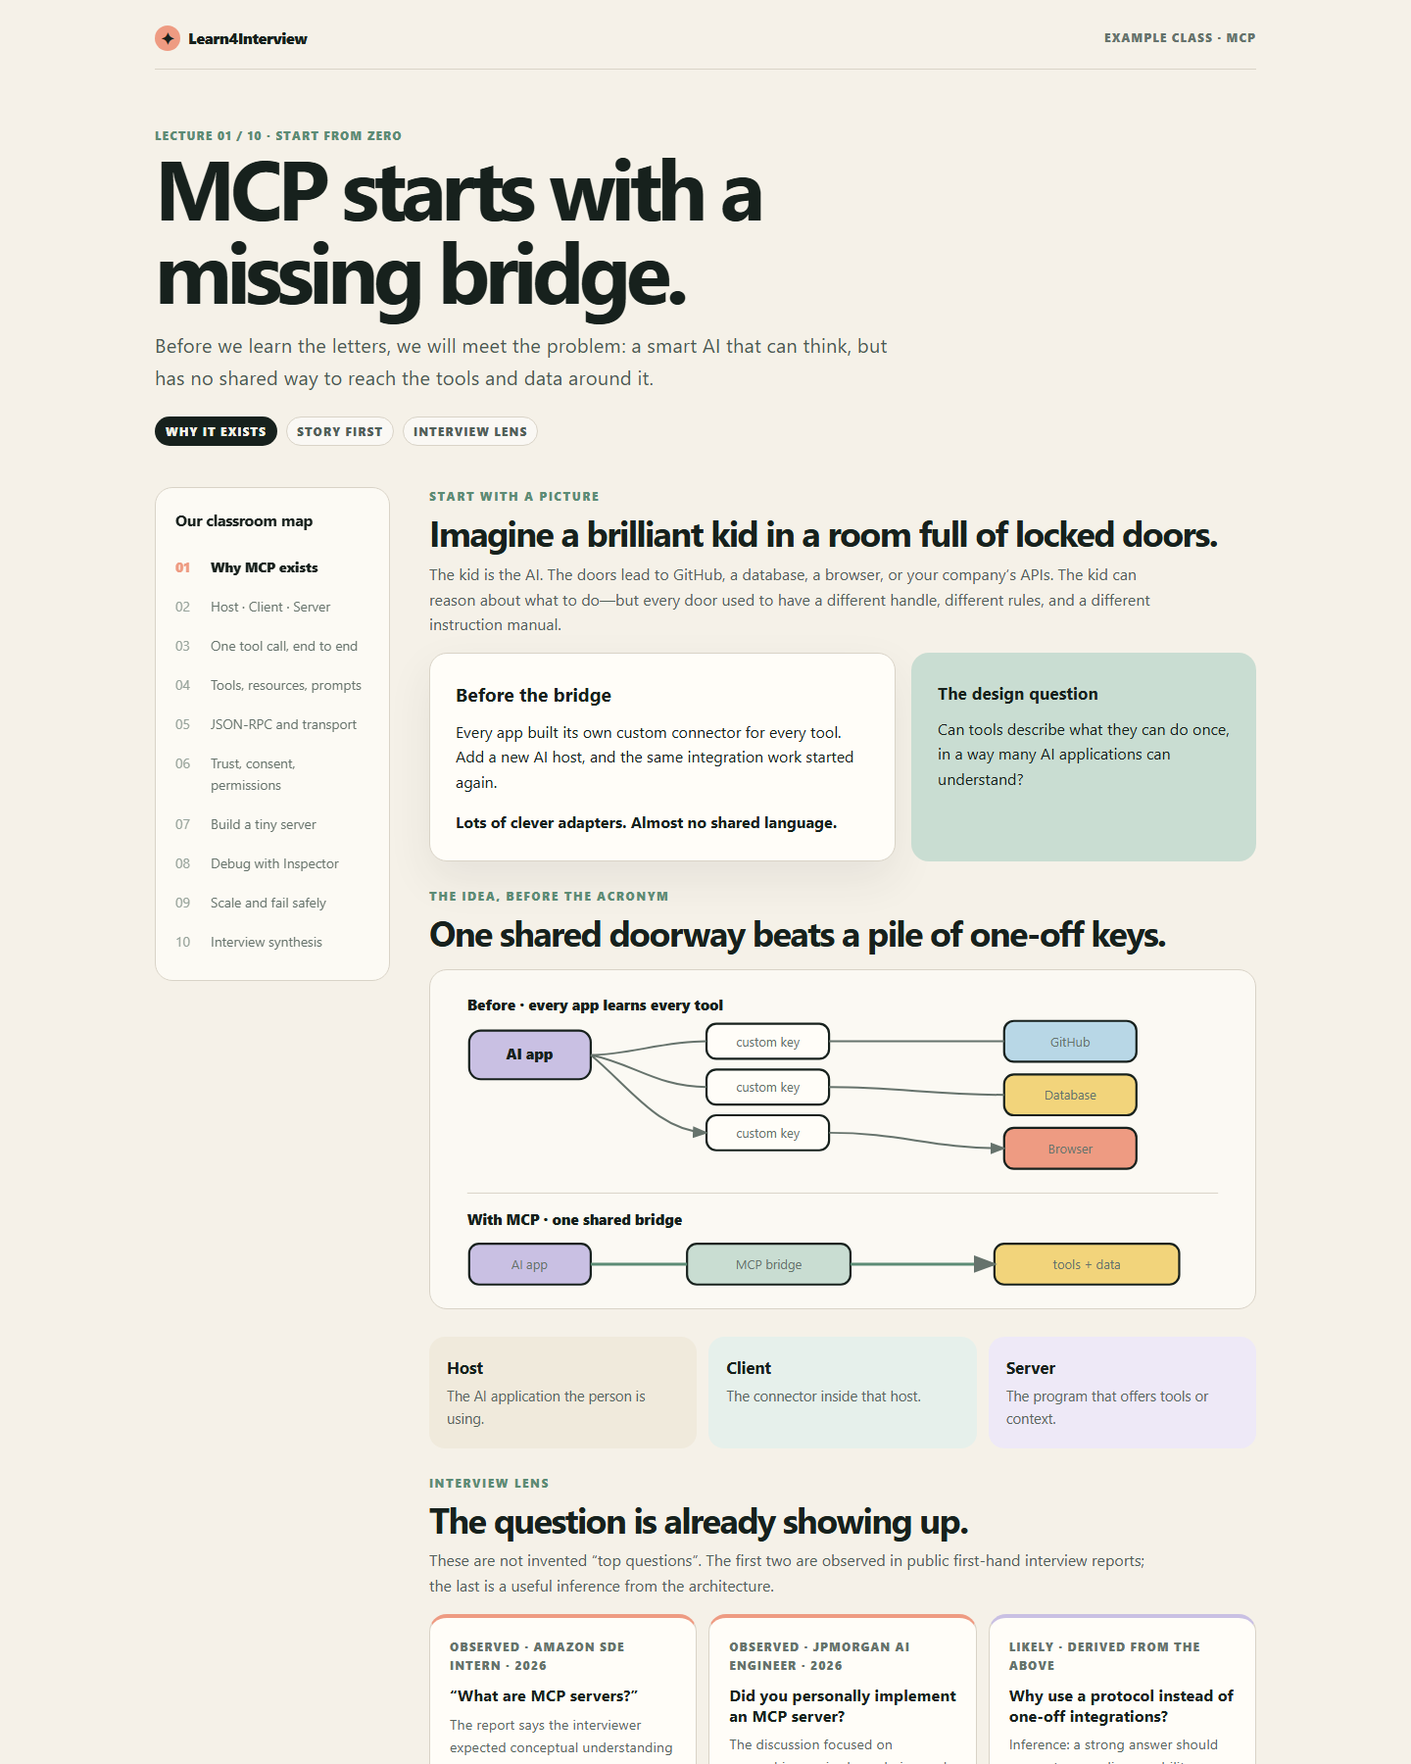
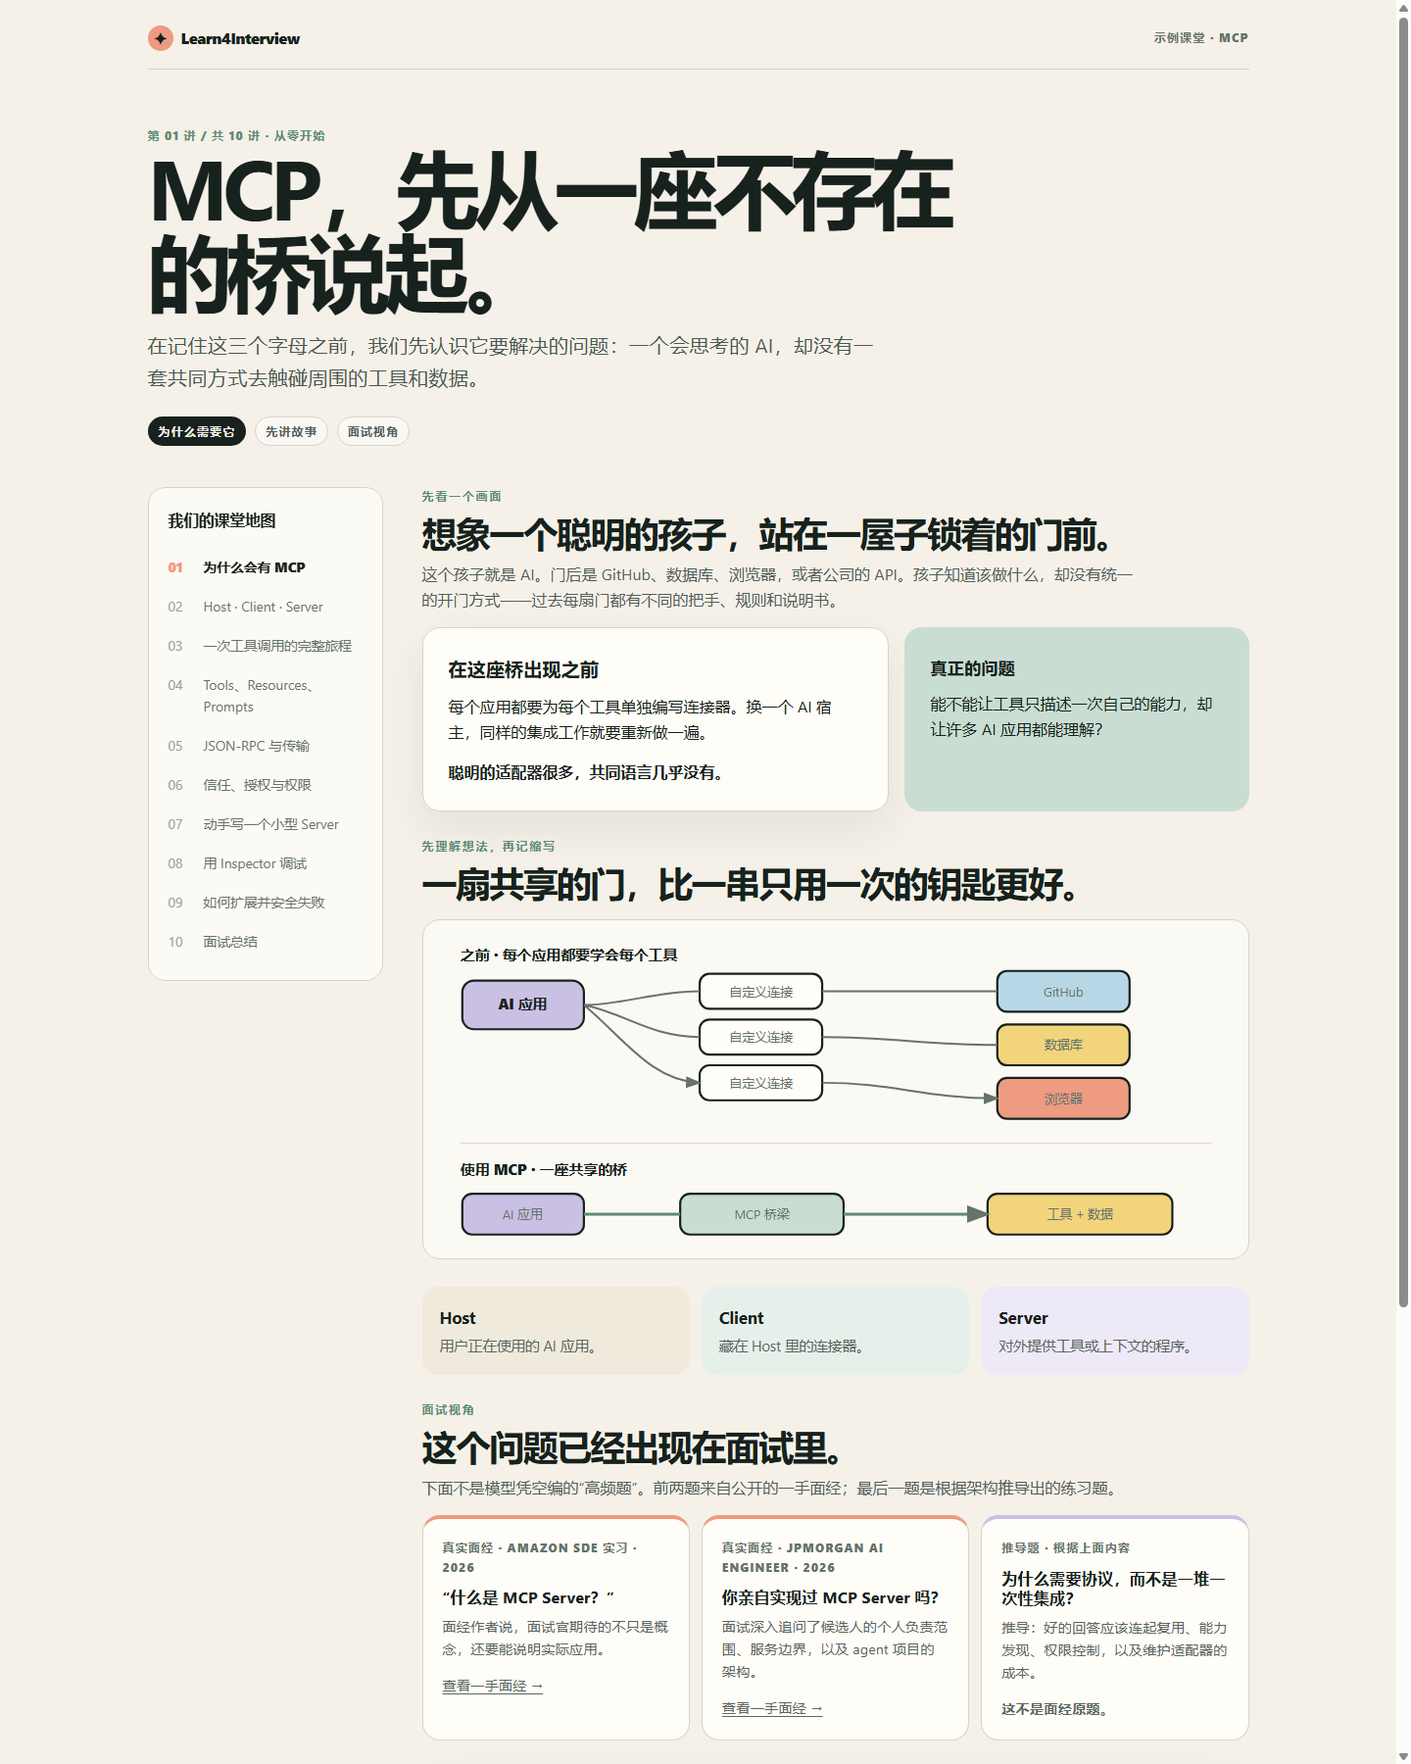
Localize MCP example lesson to Chinese

diff --git a/examples/mcp/lecture-01.html b/examples/mcp/lecture-01.html
@@ -1,9 +1,9 @@
 <!doctype html>
-<html lang="en">
+<html lang="zh-CN">
 <head>
   <meta charset="utf-8">
   <meta name="viewport" content="width=device-width, initial-scale=1">
-  <title>MCP · Lecture 01 · Why the bridge exists</title>
+  <title>MCP · 第 01 讲 · 为什么需要这座桥</title>
   <style>
     :root {
       --ink: #17211d;
@@ -114,125 +114,125 @@
   <div class="shell">
     <header class="topbar">
       <a class="brand" href="../../SKILL.md"><span class="brand-mark">✦</span>Learn4Interview</a>
-      <span class="top-meta">Example class · MCP</span>
+      <span class="top-meta">示例课堂 · MCP</span>
     </header>
 
     <section class="hero" aria-labelledby="page-title">
-      <div class="eyebrow">Lecture 01 / 10 · Start from zero</div>
-      <h1 id="page-title">MCP starts with a missing bridge.</h1>
-      <p class="lede">Before we learn the letters, we will meet the problem: a smart AI that can think, but has no shared way to reach the tools and data around it.</p>
-      <div class="hero-meta"><span class="chip active">Why it exists</span><span class="chip">Story first</span><span class="chip">Interview lens</span></div>
+      <div class="eyebrow">第 01 讲 / 共 10 讲 · 从零开始</div>
+      <h1 id="page-title">MCP，先从一座不存在的桥说起。</h1>
+      <p class="lede">在记住这三个字母之前，我们先认识它要解决的问题：一个会思考的 AI，却没有一套共同方式去触碰周围的工具和数据。</p>
+      <div class="hero-meta"><span class="chip active">为什么需要它</span><span class="chip">先讲故事</span><span class="chip">面试视角</span></div>
     </section>
 
     <div class="course">
-      <aside class="roadmap" aria-label="MCP course roadmap">
-        <h2>Our classroom map</h2>
+      <aside class="roadmap" aria-label="MCP 课程地图">
+        <h2>我们的课堂地图</h2>
         <ol>
-          <li class="current">Why MCP exists</li>
+          <li class="current">为什么会有 MCP</li>
           <li>Host · Client · Server</li>
-          <li>One tool call, end to end</li>
-          <li>Tools, resources, prompts</li>
-          <li>JSON-RPC and transport</li>
-          <li>Trust, consent, permissions</li>
-          <li>Build a tiny server</li>
-          <li>Debug with Inspector</li>
-          <li>Scale and fail safely</li>
-          <li>Interview synthesis</li>
+          <li>一次工具调用的完整旅程</li>
+          <li>Tools、Resources、Prompts</li>
+          <li>JSON-RPC 与传输</li>
+          <li>信任、授权与权限</li>
+          <li>动手写一个小型 Server</li>
+          <li>用 Inspector 调试</li>
+          <li>如何扩展并安全失败</li>
+          <li>面试总结</li>
         </ol>
       </aside>
 
       <main class="lesson">
         <section class="section" aria-labelledby="story-title">
-          <div class="section-label">Start with a picture</div>
-          <h2 id="story-title">Imagine a brilliant kid in a room full of locked doors.</h2>
-          <p class="section-intro">The kid is the AI. The doors lead to GitHub, a database, a browser, or your company’s APIs. The kid can reason about what to do—but every door used to have a different handle, different rules, and a different instruction manual.</p>
+          <div class="section-label">先看一个画面</div>
+          <h2 id="story-title">想象一个聪明的孩子，站在一屋子锁着的门前。</h2>
+          <p class="section-intro">这个孩子就是 AI。门后是 GitHub、数据库、浏览器，或者公司的 API。孩子知道该做什么，却没有统一的开门方式——过去每扇门都有不同的把手、规则和说明书。</p>
           <div class="story">
             <article class="story-card">
-              <h3>Before the bridge</h3>
-              <p>Every app built its own custom connector for every tool. Add a new AI host, and the same integration work started again.</p>
-              <p><strong>Lots of clever adapters. Almost no shared language.</strong></p>
+              <h3>在这座桥出现之前</h3>
+              <p>每个应用都要为每个工具单独编写连接器。换一个 AI 宿主，同样的集成工作就要重新做一遍。</p>
+              <p><strong>聪明的适配器很多，共同语言几乎没有。</strong></p>
             </article>
             <article class="story-card accent-card">
-              <strong>The design question</strong>
-              <p>Can tools describe what they can do once, in a way many AI applications can understand?</p>
+              <strong>真正的问题</strong>
+              <p>能不能让工具只描述一次自己的能力，却让许多 AI 应用都能理解？</p>
             </article>
           </div>
         </section>
 
         <section class="section" aria-labelledby="diagram-title">
-          <div class="section-label">The idea, before the acronym</div>
-          <h2 id="diagram-title">One shared doorway beats a pile of one-off keys.</h2>
+          <div class="section-label">先理解想法，再记缩写</div>
+          <h2 id="diagram-title">一扇共享的门，比一串只用一次的钥匙更好。</h2>
           <div class="diagram">
-            <svg viewBox="0 0 820 320" role="img" aria-label="Comparison of many custom integrations versus one MCP bridge">
+            <svg viewBox="0 0 820 320" role="img" aria-label="多套自定义集成与一座 MCP 桥梁的对比">
               <defs>
                 <marker id="arrow" markerWidth="9" markerHeight="9" refX="7" refY="3" orient="auto"><path d="M0,0 L0,6 L8,3 z" fill="#66736c"/></marker>
               </defs>
-              <text x="24" y="27" class="label">Before · every app learns every tool</text>
-              <rect x="26" y="48" width="125" height="50" rx="12" fill="#c9c0e3" class="node"/><text x="88" y="78" text-anchor="middle" class="label">AI app</text>
-              <rect x="270" y="41" width="126" height="36" rx="10" fill="#fffdf8" class="node"/><text x="333" y="64" text-anchor="middle" class="small">custom key</text>
-              <rect x="270" y="88" width="126" height="36" rx="10" fill="#fffdf8" class="node"/><text x="333" y="111" text-anchor="middle" class="small">custom key</text>
-              <rect x="270" y="135" width="126" height="36" rx="10" fill="#fffdf8" class="node"/><text x="333" y="158" text-anchor="middle" class="small">custom key</text>
+              <text x="24" y="27" class="label">之前 · 每个应用都要学会每个工具</text>
+              <rect x="26" y="48" width="125" height="50" rx="12" fill="#c9c0e3" class="node"/><text x="88" y="78" text-anchor="middle" class="label">AI 应用</text>
+              <rect x="270" y="41" width="126" height="36" rx="10" fill="#fffdf8" class="node"/><text x="333" y="64" text-anchor="middle" class="small">自定义连接</text>
+              <rect x="270" y="88" width="126" height="36" rx="10" fill="#fffdf8" class="node"/><text x="333" y="111" text-anchor="middle" class="small">自定义连接</text>
+              <rect x="270" y="135" width="126" height="36" rx="10" fill="#fffdf8" class="node"/><text x="333" y="158" text-anchor="middle" class="small">自定义连接</text>
               <rect x="576" y="38" width="136" height="42" rx="10" fill="#b8d7e6" class="node"/><text x="644" y="64" text-anchor="middle" class="small">GitHub</text>
-              <rect x="576" y="93" width="136" height="42" rx="10" fill="#f2d47b" class="node"/><text x="644" y="119" text-anchor="middle" class="small">Database</text>
-              <rect x="576" y="148" width="136" height="42" rx="10" fill="#ee9b82" class="node"/><text x="644" y="174" text-anchor="middle" class="small">Browser</text>
+              <rect x="576" y="93" width="136" height="42" rx="10" fill="#f2d47b" class="node"/><text x="644" y="119" text-anchor="middle" class="small">数据库</text>
+              <rect x="576" y="148" width="136" height="42" rx="10" fill="#ee9b82" class="node"/><text x="644" y="174" text-anchor="middle" class="small">浏览器</text>
               <path d="M151 73 C190 73 225 59 270 59 M151 73 C195 82 220 106 270 106 M151 73 C190 105 220 151 270 153" fill="none" stroke="#66736c" stroke-width="2" marker-end="url(#arrow)"/>
               <path d="M396 59 C470 59 500 59 576 59 M396 106 C470 106 500 114 576 114 M396 153 C470 153 500 169 576 169" fill="none" stroke="#66736c" stroke-width="2" marker-end="url(#arrow)"/>
               <line x1="24" y1="215" x2="796" y2="215" stroke="#d9d3c7"/>
-              <text x="24" y="248" class="label">With MCP · one shared bridge</text>
-              <rect x="26" y="267" width="125" height="42" rx="10" fill="#c9c0e3" class="node"/><text x="88" y="293" text-anchor="middle" class="small">AI app</text>
-              <rect x="250" y="267" width="168" height="42" rx="10" fill="#c9ddd2" class="node"/><text x="334" y="293" text-anchor="middle" class="small">MCP bridge</text>
-              <rect x="566" y="267" width="190" height="42" rx="10" fill="#f2d47b" class="node"/><text x="661" y="293" text-anchor="middle" class="small">tools + data</text>
+              <text x="24" y="248" class="label">使用 MCP · 一座共享的桥</text>
+              <rect x="26" y="267" width="125" height="42" rx="10" fill="#c9c0e3" class="node"/><text x="88" y="293" text-anchor="middle" class="small">AI 应用</text>
+              <rect x="250" y="267" width="168" height="42" rx="10" fill="#c9ddd2" class="node"/><text x="334" y="293" text-anchor="middle" class="small">MCP 桥梁</text>
+              <rect x="566" y="267" width="190" height="42" rx="10" fill="#f2d47b" class="node"/><text x="661" y="293" text-anchor="middle" class="small">工具 + 数据</text>
               <path d="M151 288 L250 288 M418 288 L566 288" fill="none" stroke="#5c8c75" stroke-width="3" marker-end="url(#arrow)"/>
             </svg>
           </div>
-          <div class="term-grid" aria-label="First vocabulary reveal">
-            <article class="term"><b>Host</b><p>The AI application the person is using.</p></article>
-            <article class="term"><b>Client</b><p>The connector inside that host.</p></article>
-            <article class="term"><b>Server</b><p>The program that offers tools or context.</p></article>
+          <div class="term-grid" aria-label="第一次词汇揭示">
+            <article class="term"><b>Host</b><p>用户正在使用的 AI 应用。</p></article>
+            <article class="term"><b>Client</b><p>藏在 Host 里的连接器。</p></article>
+            <article class="term"><b>Server</b><p>对外提供工具或上下文的程序。</p></article>
           </div>
         </section>
 
         <section class="section" aria-labelledby="interview-title">
-          <div class="section-label">Interview lens</div>
-          <h2 id="interview-title">The question is already showing up.</h2>
-          <p class="section-intro">These are not invented “top questions”. The first two are observed in public first-hand interview reports; the last is a useful inference from the architecture.</p>
+          <div class="section-label">面试视角</div>
+          <h2 id="interview-title">这个问题已经出现在面试里。</h2>
+          <p class="section-intro">下面不是模型凭空编的“高频题”。前两题来自公开的一手面经；最后一题是根据架构推导出的练习题。</p>
           <div class="evidence-grid">
             <article class="evidence-card observed">
-              <div class="source-kind">Observed · Amazon SDE Intern · 2026</div>
-              <h3>“What are MCP servers?”</h3>
-              <p>The report says the interviewer expected conceptual understanding plus practical applications.</p>
-              <p><a href="https://leetcode.com/discuss/post/8379852/amazon-sde-internship-interview-experien-xu0m/">Read the first-hand report →</a></p>
+              <div class="source-kind">真实面经 · Amazon SDE 实习 · 2026</div>
+              <h3>“什么是 MCP Server？”</h3>
+              <p>面经作者说，面试官期待的不只是概念，还要能说明实际应用。</p>
+              <p><a href="https://leetcode.com/discuss/post/8379852/amazon-sde-internship-interview-experien-xu0m/">查看一手面经 →</a></p>
             </article>
             <article class="evidence-card observed">
-              <div class="source-kind">Observed · JPMorgan AI Engineer · 2026</div>
-              <h3>Did you personally implement an MCP server?</h3>
-              <p>The discussion focused on ownership, service boundaries, and the architecture behind an agentic project.</p>
-              <p><a href="https://www.reddit.com/r/OfferEngineering/comments/1vgc8zk/jpmorgan_ai_engineer_phone_screen_interview/">Read the first-hand report →</a></p>
+              <div class="source-kind">真实面经 · JPMorgan AI Engineer · 2026</div>
+              <h3>你亲自实现过 MCP Server 吗？</h3>
+              <p>面试深入追问了候选人的个人负责范围、服务边界，以及 agent 项目的架构。</p>
+              <p><a href="https://www.reddit.com/r/OfferEngineering/comments/1vgc8zk/jpmorgan_ai_engineer_phone_screen_interview/">查看一手面经 →</a></p>
             </article>
             <article class="evidence-card derived">
-              <div class="source-kind">Likely · derived from the above</div>
-              <h3>Why use a protocol instead of one-off integrations?</h3>
-              <p>Inference: a strong answer should connect reuse, discoverability, permissions, and the cost of maintaining adapters.</p>
-              <p><strong>Not a reported question.</strong></p>
+              <div class="source-kind">推导题 · 根据上面内容</div>
+              <h3>为什么需要协议，而不是一堆一次性集成？</h3>
+              <p>推导：好的回答应该连起复用、能力发现、权限控制，以及维护适配器的成本。</p>
+              <p><strong>这不是面经原题。</strong></p>
             </article>
           </div>
         </section>
 
         <section class="answer" aria-labelledby="answer-title">
-          <div class="section-label">Say it out loud</div>
-          <h2 id="answer-title">A 30-second interview answer</h2>
-          <blockquote>MCP is an open protocol that gives AI applications a standard way to discover and use external tools and data. Instead of every host writing a separate integration for every service, an MCP client connects the host to an MCP server that exposes capabilities in a shared shape. That makes integrations reusable—but the server and its permissions still need to be trusted and reviewed.</blockquote>
+          <div class="section-label">试着说出来</div>
+          <h2 id="answer-title">30 秒面试回答</h2>
+          <blockquote>MCP 是一种开放协议，让 AI 应用可以用统一方式发现和使用外部工具与数据。以前每个 Host 都要为每个服务单独写集成；现在，MCP Client 把 Host 接到 MCP Server，Server 用共享的协议暴露能力。这样集成可以复用，但 Server 和它拥有的权限仍然需要被信任和审查。</blockquote>
         </section>
 
-        <div class="footer-note"><span>Side quests stay in Lecture 01.</span><span>Say “next lecture” to meet Host, Client, and Server in detail.</span></div>
+        <div class="footer-note"><span>插问仍然留在第 01 讲。</span><span>说“下一讲”，我们再详细认识 Host、Client 和 Server。</span></div>
 
         <section class="source-box" aria-labelledby="sources-title">
-          <h2 id="sources-title">Sources used in this lesson</h2>
+          <h2 id="sources-title">本讲使用的资料</h2>
           <ul>
-            <li><a href="https://modelcontextprotocol.io/docs/2026-07-28/getting-started/intro">MCP official introduction</a> — protocol purpose and terminology.</li>
-            <li><a href="https://github.com/modelcontextprotocol/modelcontextprotocol/blob/main/docs/specification/2026-07-28/server/tools.mdx">MCP official Tools specification</a> — tool discovery, calling, and human-in-the-loop guidance.</li>
-            <li><a href="https://leetcode.com/discuss/post/8379852/amazon-sde-internship-interview-experien-xu0m/">Amazon SDE Internship interview experience (2026)</a> — observed MCP question.</li>
-            <li><a href="https://www.reddit.com/r/OfferEngineering/comments/1vgc8zk/jpmorgan_ai_engineer_phone_screen_interview/">JPMorgan AI Engineer phone screen experience (2026)</a> — observed implementation deep dive.</li>
+            <li><a href="https://modelcontextprotocol.io/docs/2026-07-28/getting-started/intro">MCP 官方介绍</a> — 协议目的与基本术语。</li>
+            <li><a href="https://github.com/modelcontextprotocol/modelcontextprotocol/blob/main/docs/specification/2026-07-28/server/tools.mdx">MCP 官方 Tools 规范</a> — 工具发现、调用与人在回路中的安全提示。</li>
+            <li><a href="https://leetcode.com/discuss/post/8379852/amazon-sde-internship-interview-experien-xu0m/">Amazon SDE 实习面经（2026）</a> — 真实 MCP 面试问题。</li>
+            <li><a href="https://www.reddit.com/r/OfferEngineering/comments/1vgc8zk/jpmorgan_ai_engineer_phone_screen_interview/">JPMorgan AI Engineer 面经（2026）</a> — 真实的 MCP 实现追问。</li>
           </ul>
         </section>
       </main>

diff --git a/README.md b/README.md
@@ -38,21 +38,21 @@ The teaching starts with a story a five-year-old could follow, then quietly buil
   A difficult topic becomes a sequence of small “oh, I get it” moments—then a clear answer under interview pressure.
 </p>
 
-## 🧪 Example · MCP
+## 🧪 示例 · MCP
 
-This is a real first lesson generated with Learn4Interview—not a mock screenshot. It starts with a five-year-old-friendly story, reveals the MCP vocabulary only after the idea is clear, then connects it to an architecture diagram and public interview evidence.
+这是 Learn4Interview 实际生成的第一讲，不是模拟截图。它先用五岁小孩也能理解的故事，再揭示 MCP 术语，最后连接到架构图和公开面经证据。
 
 <p align="center">
   <a href="examples/mcp/lecture-01.html">
-    <img src="examples/mcp/lecture-01.png" alt="Preview of the MCP Lecture 01 HTML lesson" width="86%">
+    <img src="examples/mcp/lecture-01.png" alt="MCP 第一讲中文 HTML 课堂预览" width="86%">
   </a>
 </p>
 
 <p align="center">
-  <a href="examples/mcp/lecture-01.html"><strong>Open the full MCP lesson →</strong></a>
+  <a href="examples/mcp/lecture-01.html"><strong>打开完整的 MCP 中文课堂 →</strong></a>
 </p>
 
-<p align="center"><sub>Official MCP documentation · Amazon SDE interview report · JPMorgan AI Engineer interview report</sub></p>
+<p align="center"><sub>MCP 官方文档 · Amazon SDE 面经 · JPMorgan AI Engineer 面经</sub></p>
 
 ## 📦 Install
 
